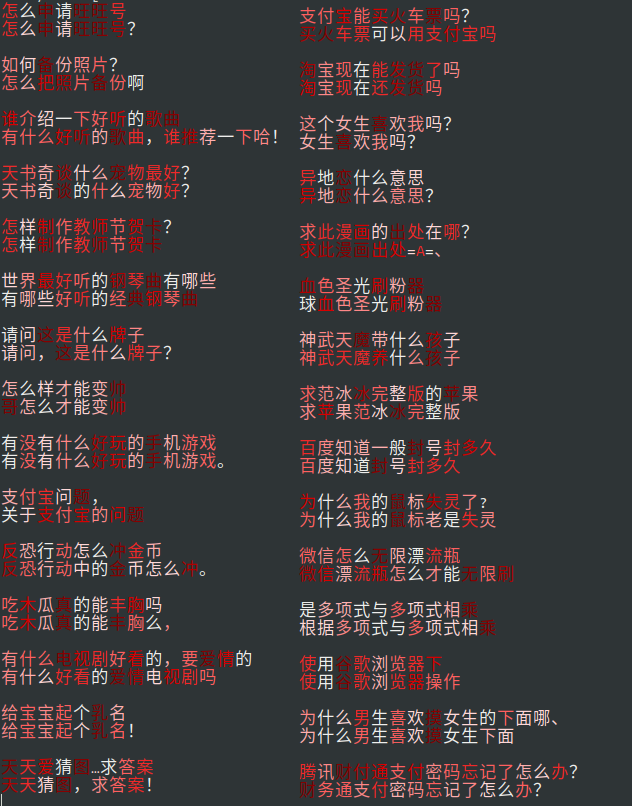
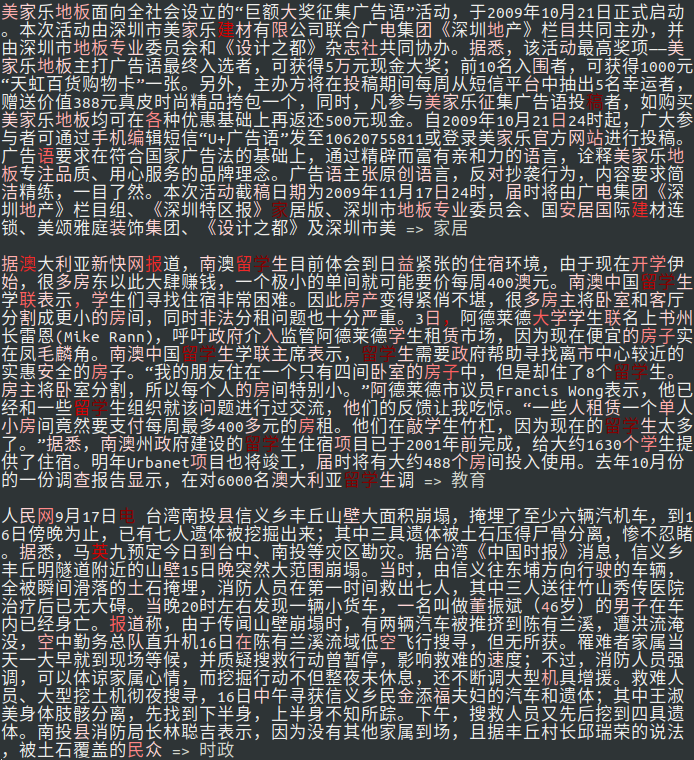
Add long text

diff --git a/model_long_text.py b/model_long_text.py
@@ -1,3 +1,4 @@
+import random
 import warnings
 warnings.filterwarnings("ignore")
 import numpy as np
@@ -16,34 +17,66 @@ from sklearn import metrics
 
 from attentionpooling import AttentionPooling1D
 from dataset import SimpleTokenizer, find_best_maxlen
+from dataset import load_THUCNews_content_label
 
-from dataset import load_THUCNews_title_label
-from dataset import load_weibo_senti_100k
-from dataset import load_simplifyweibo_4_moods
+# 长文分类AttentionPooling可视化
 
-X, y, classes = load_THUCNews_title_label()
-X_train, X_test, y_train, y_test = train_test_split(X, y, train_size=0.8, random_state=7384672)
-
+gen, files, classes = load_THUCNews_content_label()
+files = files[:]
 num_classes = len(classes)
+maxlen = 512
+
+# cross validation
+def split_index(size, scale=(0.8,0.1,0.1)):
+    i = int(scale[0] * size)
+    j = int((scale[0] + scale[1]) * size)
+    return i, j
+
+i, j = split_index(size=len(files))
+
+files_train = files[:i]
+files_val = files[i:j]
+files_test = files[j:]
+
+# train tokenizer
+def Xiter(files):
+    for content, label in gen(files):
+        yield content
+
 tokenizer = SimpleTokenizer()
-tokenizer.fit(X_train)
-X_train = tokenizer.transform(X_train)
+tokenizer.fit(*[Xiter(files)])
 
-# maxlen = 48
-maxlen = find_best_maxlen(X_train)
+class DataGenerator:
 
-X_train = sequence.pad_sequences(
-    X_train, 
-    maxlen=maxlen,
-    dtype="int32",
-    padding="post",
-    truncating="post",
-    value=0
-)
-y_train = tf.keras.utils.to_categorical(y_train)
+    def __init__(self, files, loop):
+        self.files = files
+        self.loop = loop
+
+    def __call__(self):
+        for _ in range(self.loop):
+            random.shuffle(self.files)
+            for content, label in gen(self.files):
+                content = content[:maxlen]
+                content = tokenizer.transform([content])[0]
+                label = tf.keras.utils.to_categorical(label, num_classes)
+                yield content, label
 
 num_words = len(tokenizer)
 embedding_dims = 128
+batch_size = 32
+
+def create_dataset(files, loop=int(1e12)):
+    dataset = tf.data.Dataset.from_generator(
+        generator=DataGenerator(files, loop),
+        output_types=(tf.int32, tf.int32)
+    )
+
+    dataset = dataset.padded_batch(
+        batch_size=batch_size,
+        padded_shapes=([maxlen], [None]),
+        drop_remainder=True
+    )
+    return dataset
 
 inputs = Input(shape=(maxlen,))
 mask = Lambda(lambda x: tf.not_equal(x, 0))(inputs)
@@ -68,21 +101,26 @@ model.compile(loss="categorical_crossentropy",
               metrics=["accuracy"])
 model.summary()
 
-model_w_outputs = Model(inputs, w)
+model_weights_outputs = Model(inputs, w)
 
 batch_size = 32
-epochs = 10
+epochs = 2
 callbacks = []
-model.fit(X_train, y_train,
+
+dl_train = create_dataset(files_train)
+dl_val = create_dataset(files_val, loop=1)
+model.fit(dl_train,
           batch_size=batch_size,
           epochs=epochs,
           callbacks=callbacks,
-          validation_split=0.2)
+          validation_data=dl_val,
+          steps_per_epoch=len(files_train)//batch_size
+)
 
 id_to_classes = {j:i for i,j in classes.items()}
 from color import print_color_string
 def visualization():
-    for sample, label in zip(X_test, y_test):
+    for sample, label in gen(files_test):
         sample_len = len(sample)
         if sample_len > maxlen:
             sample_len = maxlen
@@ -104,7 +142,7 @@ def visualization():
             continue
             
         # 预测权重
-        weights = model_w_outputs.predict(x)[0]
+        weights = model_weights_outputs.predict(x)[0]
         # print(sample, "=>", id_to_classes[y_pred_id])
         # print(weights.flatten() * len(sample))
 
@@ -114,4 +152,3 @@ def visualization():
         input() # 按回车预测下一个样本
 
 visualization()
-

diff --git a/dataset.py b/dataset.py
@@ -1,4 +1,5 @@
 import re
+import glob
 import random
 import itertools
 import collections
@@ -22,12 +23,33 @@ def load_THUCNews_title_label(file=_THUCNews):
     clabels = [categoricals[i] for i in labels]
     return titles, clabels, categoricals
 
+_THUContent = "/home/zhiwen/workspace/dataset/THUCTC/THUCNews/**/*.txt"
+def load_THUCNews_content_label(file=_THUContent, shuffle=True):
+    categoricals = {'体育': 0, '娱乐': 1, '家居': 2, '彩票': 3, 
+                    '房产': 4, '教育': 5, '时尚': 6, '时政': 7, 
+                    '星座': 8, '游戏': 9, '社会': 10, '科技': 11, 
+                    '股票': 12, '财经': 13}
+    
+    files = glob.glob(file)
+    if shuffle:
+        random.shuffle(files)
+
+    def Xy_generator(files):
+        for path in files:
+            label = path.rsplit("/", -2)[-2]
+            with open(path, encoding="utf-8") as fd:
+                _ = fd.readline() # skip title
+                content = fd.read().strip()
+            content = content.replace("\n", "").replace("\u3000", "")
+            yield content, categoricals[label]
+    return Xy_generator, files, categoricals
+
 _w100k = "/home/zhiwen/workspace/dataset/classification/weibo_senti_100k/weibo_senti_100k.csv"
 def load_weibo_senti_100k(file=_w100k, noe=True):
     df = pd.read_csv(file)
     X = df.review.to_list()
     y = df.label.to_list()
-    # 去 emoji 表情
+    # 去 emoji 表情，提升样本训练难度
     if noe:
         X = [re.sub("\[.+?\]", lambda x:"", s) for s in X]
     categoricals = {"负面":0, "正面":1}
@@ -104,6 +126,13 @@ class SimpleTokenizer:
     @property
     def vocab(self):
         return self.char2id
+
+    def save(self, file):
+        pass
+
+    @classmethod
+    def load(cls, file):
+        pass
 
 def find_best_maxlen(X, mode="max"):
     # 获取适合的截断长度

diff --git a/color.py b/color.py
@@ -39,8 +39,18 @@ def print_color_string(string, ws):
         i = int(w * len(colors))
         print(cs(s, colors[i]), end="")
 
+template = '<font color="{}">{}</font>'
+def markdown_color_string(string, ws):
+    ws = (ws - np.min(ws)) / (np.max(ws) - np.min(ws)) * 0.99
+    ss = []
+    for s, w in zip(string, ws):
+        i = int(w * len(colors))
+        ss.append(template.format(colors[i], s))
+    return "".join(ss)
+
 if __name__ == "__main__":
     # for testing
     import string
     s = string.ascii_letters
     print_color_string(s, np.arange(len(s)))
+    print(markdown_color_string(s, np.arange(len(s))))

diff --git a/README.md b/README.md
@@ -2,6 +2,8 @@
 
 AttentionPooling在分类问题上的可视化分析。
 
+## 示例
+
 示例一：
 
 新闻标题分类，
@@ -20,9 +22,23 @@ AttentionPooling在分类问题上的可视化分析。
 
 ![](asset/attention_pooling_demo_3.png)
 
+
 示例四：
 
-文本匹配Attentionpooling可视化，
+长文分类，
 
 ![](asset/attention_pooling_demo_4.png)
 
+
+示例五：
+
+文本匹配Attentionpooling可视化，
+
+![](asset/attention_pooling_demo_5.png)
+
+## 数据来源
+
+[1] http://thuctc.thunlp.org/
+[2] https://github.com/SophonPlus/ChineseNlpCorpus/blob/master/datasets/weibo_senti_100k/intro.ipynb
+[3] https://github.com/SophonPlus/ChineseNlpCorpus/blob/master/datasets/simplifyweibo_4_moods/intro.ipynb
+[4] https://www.aclweb.org/anthology/C18-1166/
